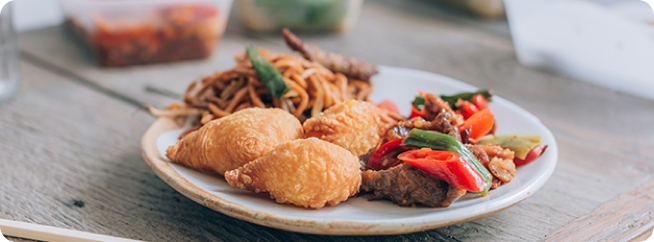
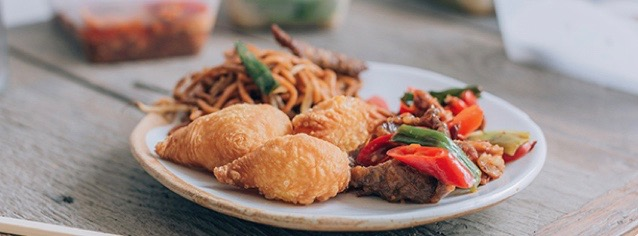
v2.10.0 chnge the example image for cusines block

diff --git a/CHANGELOG.md b/CHANGELOG.md
@@ -6,7 +6,7 @@ and this project adheres to [Semantic Versioning](http://semver.org/spec/v2.0.0.
 
 v2.10.0
 ------------------------------
-*December 4, 2018*
+*December 5, 2018*
 
 ### Added
 - `c-cuisinesWidget` component
